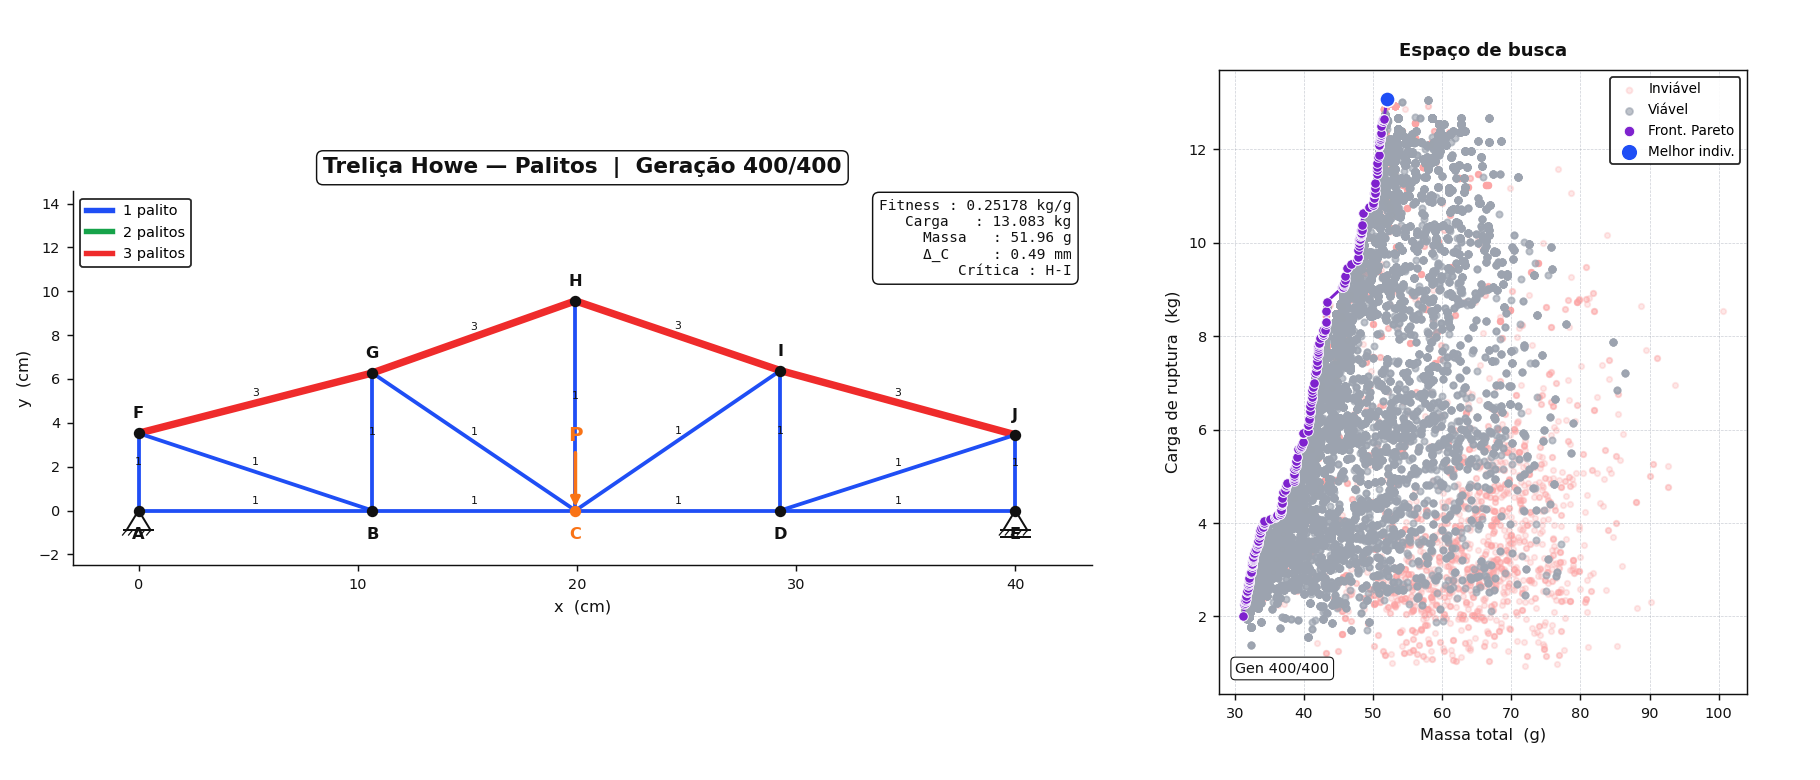
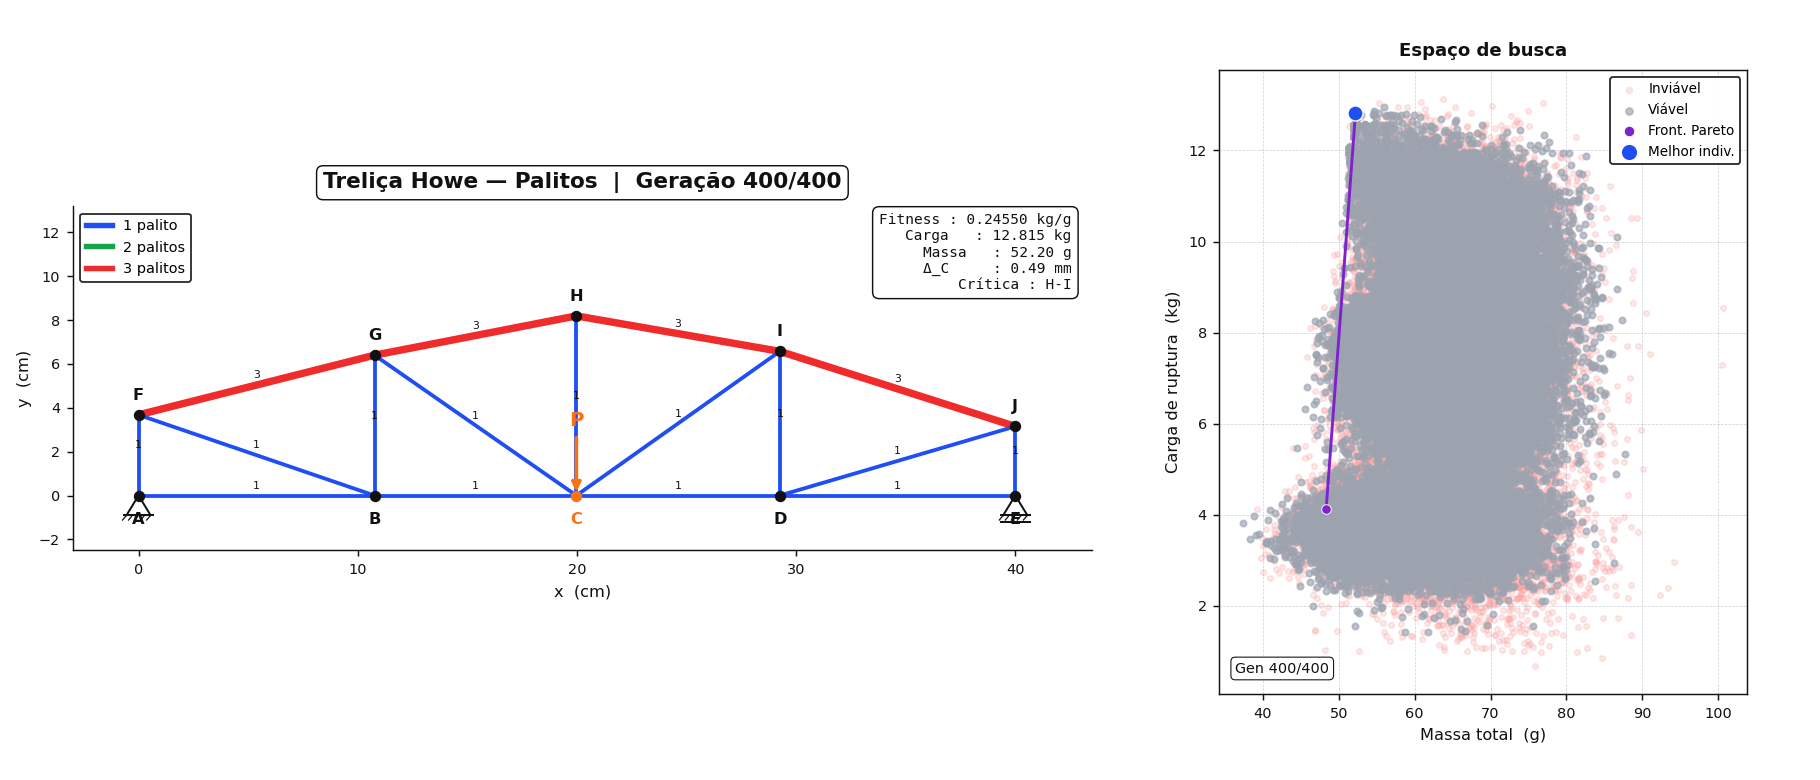
mudanças para o fitness unico do ag

diff --git a/Victor_version/trelica_howe_ga_corrigido.py b/Victor_version/trelica_howe_ga_corrigido.py
@@ -76,7 +76,6 @@ class Individual:
     h_cm: np.ndarray            # (5,) alturas das verticais
     n: np.ndarray               # (17,) palitos por barra, em {1, 2, 3}
     fitness: float = 0.0
-    objectives: tuple = field(default_factory=lambda: (1e12, 1e12))  # (massa+pen, -carga+pen)
     feasible: bool = False
     data: dict = field(default_factory=dict)
 
@@ -257,8 +256,7 @@ def evaluate(ind: Individual) -> Individual:
 
     penalidade = calcular_penalidades(lengths_cm, total_sticks, total_mass)
     feasible = (penalidade == 0.0)
-    ind.fitness = (load_kg / total_mass) if feasible and total_mass > 0 else 0.0
-    ind.objectives = (total_mass + penalidade, -load_kg + penalidade)
+    ind.fitness = load_kg / total_mass if feasible and total_mass > 0 else -penalidade
     ind.feasible = feasible
 
     stresses_mpa = (axial_unit * load_n / areas) / 1e6
@@ -299,75 +297,9 @@ def _pareto_front(pts: list[tuple[float, float]]) -> list[list[float]]:
     return [[m, l] for m, l in sorted(result)]
 
 
-def _dominates(obj_a: tuple, obj_b: tuple) -> bool:
-    """obj_a domina obj_b se for ≤ em todos e < em pelo menos um (ambos minimizados)."""
-    return (obj_a[0] <= obj_b[0] and obj_a[1] <= obj_b[1] and
-            (obj_a[0] < obj_b[0] or obj_a[1] < obj_b[1]))
-
-
-def _non_dominated_sort(population: list[Individual]) -> tuple[list, list]:
-    n = len(population)
-    dominated_by = [[] for _ in range(n)]
-    domination_count = [0] * n
-    fronts: list[list[int]] = [[]]
-    rank = [0] * n
-
-    for p in range(n):
-        for q in range(n):
-            if p == q:
-                continue
-            if _dominates(population[p].objectives, population[q].objectives):
-                dominated_by[p].append(q)
-            elif _dominates(population[q].objectives, population[p].objectives):
-                domination_count[p] += 1
-        if domination_count[p] == 0:
-            fronts[0].append(p)
-
-    i = 0
-    while fronts[i]:
-        next_front: list[int] = []
-        for p in fronts[i]:
-            for q in dominated_by[p]:
-                domination_count[q] -= 1
-                if domination_count[q] == 0:
-                    rank[q] = i + 1
-                    next_front.append(q)
-        i += 1
-        fronts.append(next_front)
-    fronts.pop()
-    return fronts, rank
-
-
-def _crowding_distance(front: list[int], population: list[Individual]) -> dict:
-    dist: dict[int, float] = {idx: 0.0 for idx in front}
-    size = len(front)
-    if size <= 2:
-        for idx in front:
-            dist[idx] = float('inf')
-        return dist
-    for m in range(2):
-        ordered = sorted(front, key=lambda idx: population[idx].objectives[m])
-        dist[ordered[0]] = dist[ordered[-1]] = float('inf')
-        f_min = population[ordered[0]].objectives[m]
-        f_max = population[ordered[-1]].objectives[m]
-        span = f_max - f_min
-        if span == 0:
-            continue
-        for k in range(1, size - 1):
-            dist[ordered[k]] += (
-                population[ordered[k + 1]].objectives[m] -
-                population[ordered[k - 1]].objectives[m]
-            ) / span
-    return dist
-
-
-def nsga_tournament(population: list[Individual], rank: list, crowding: dict) -> Individual:
-    a, b = random.sample(range(len(population)), 2)
-    if rank[a] < rank[b]:
-        return population[a]
-    elif rank[b] < rank[a]:
-        return population[b]
-    return population[a] if crowding.get(a, 0.0) >= crowding.get(b, 0.0) else population[b]
+def tournament(population: list[Individual], k: int = 2) -> Individual:
+    """Torneio de tamanho k — vence o maior fitness."""
+    return max(random.sample(population, k), key=lambda x: x.fitness)
 
 
 def random_individual() -> Individual:
@@ -422,16 +354,16 @@ def run_ga(
     population_size: int = 250,
     generations: int = 400,
     crossover_rate: float = 0.90,
+    elitism: int = 8,
     seed: int | None = 42,
 ) -> tuple[Individual, dict]:
-    """NSGA-II bi-objetivo: minimizar massa, maximizar carga. Retorna (melhor, histórico)."""
+    """Maximiza fitness = carga_kg/massa_g (acoplado). Torneio binário + elitismo."""
     if seed is not None:
         random.seed(seed)
         np.random.seed(seed)
 
     population = [random_individual() for _ in range(population_size)]
-    feas = [x for x in population if x.feasible]
-    best = max(feas if feas else population, key=lambda x: x.fitness)
+    best = max(population, key=lambda x: x.fitness)
 
     history_best:     list[Individual]        = []
     history_cloud:    list[list[list[float]]] = []
@@ -439,44 +371,25 @@ def run_ga(
     history_best_obj: list[list[float]]       = []
 
     for gen in range(1, generations + 1):
-        fronts, rank = _non_dominated_sort(population)
-        crowding: dict[int, float] = {}
-        for front in fronts:
-            crowding.update(_crowding_distance(front, population))
+        elite = sorted(population, key=lambda x: x.fitness, reverse=True)[:elitism]
 
-        offspring: list[Individual] = []
+        offspring: list[Individual] = list(elite)
         while len(offspring) < population_size:
-            p1 = nsga_tournament(population, rank, crowding)
-            p2 = nsga_tournament(population, rank, crowding)
+            p1 = tournament(population)
+            p2 = tournament(population)
             if random.random() < crossover_rate:
                 c1, c2 = crossover(p1, p2)
             else:
                 c1 = Individual(p1.p_cm.copy(), p1.h_cm.copy(), p1.n.copy())
                 c2 = Individual(p2.p_cm.copy(), p2.h_cm.copy(), p2.n.copy())
             offspring.append(evaluate(mutate(c1)))
-            offspring.append(evaluate(mutate(c2)))
+            if len(offspring) < population_size:
+                offspring.append(evaluate(mutate(c2)))
 
-        combined = population + offspring
-        fronts_c, _ = _non_dominated_sort(combined)
-        crowding_c: dict[int, float] = {}
-        for front in fronts_c:
-            crowding_c.update(_crowding_distance(front, combined))
+        population = sorted(offspring, key=lambda x: x.fitness, reverse=True)[:population_size]
 
-        next_pop: list[Individual] = []
-        for front in fronts_c:
-            if len(next_pop) + len(front) <= population_size:
-                next_pop.extend(combined[idx] for idx in front)
-            else:
-                remaining = population_size - len(next_pop)
-                ordered = sorted(front, key=lambda idx: crowding_c.get(idx, 0.0), reverse=True)
-                next_pop.extend(combined[idx] for idx in ordered[:remaining])
-                break
-        population = next_pop
-
-        feas = [x for x in population if x.feasible]
-        gen_best = max(feas if feas else population, key=lambda x: x.fitness)
-        if gen_best.fitness > best.fitness:
-            best = gen_best
+        if population[0].fitness > best.fitness:
+            best = population[0]
 
         cloud: list[list[float]] = []
         feas_pts: list[tuple[float, float]] = []

diff --git a/Victor_version/trelica_howe_3d.py b/Victor_version/trelica_howe_3d.py
@@ -97,7 +97,6 @@ class Individual:
     w_cm: float           # largura entre pórticos
     n:    np.ndarray      # (17,) ∈ {1,2,3}
     fitness:  float = 0.0
-    objectives: tuple = field(default_factory=lambda: (1e12, 1e12))  # (massa+pen, -carga+pen)
     feasible: bool  = False
     data: dict = field(default_factory=dict)
 
@@ -251,8 +250,7 @@ def evaluate(ind: Individual) -> Individual:
 
     penalidade = calcular_penalidades(lengths_cm, total_sticks, total_mass)
     feasible = (penalidade == 0.0)
-    ind.fitness = (load_kg_3d / total_mass) if feasible and total_mass > 0 else 0.0
-    ind.objectives = (total_mass + penalidade, -load_kg_3d + penalidade)
+    ind.fitness = load_kg_3d / total_mass if feasible and total_mass > 0 else -penalidade
     ind.feasible = feasible
 
     stresses_mpa = (axial_unit * load_n_frame / areas) / 1e6
@@ -286,75 +284,9 @@ def _pareto_front(pts):
     return [[m, l] for m, l in sorted(result)]
 
 
-def _dominates(obj_a: tuple, obj_b: tuple) -> bool:
-    """obj_a domina obj_b se for ≤ em todos e < em pelo menos um (ambos minimizados)."""
-    return (obj_a[0] <= obj_b[0] and obj_a[1] <= obj_b[1] and
-            (obj_a[0] < obj_b[0] or obj_a[1] < obj_b[1]))
-
-
-def _non_dominated_sort(population: list[Individual]) -> tuple[list, list]:
-    n = len(population)
-    dominated_by = [[] for _ in range(n)]
-    domination_count = [0] * n
-    fronts: list[list[int]] = [[]]
-    rank = [0] * n
-
-    for p in range(n):
-        for q in range(n):
-            if p == q:
-                continue
-            if _dominates(population[p].objectives, population[q].objectives):
-                dominated_by[p].append(q)
-            elif _dominates(population[q].objectives, population[p].objectives):
-                domination_count[p] += 1
-        if domination_count[p] == 0:
-            fronts[0].append(p)
-
-    i = 0
-    while fronts[i]:
-        next_front: list[int] = []
-        for p in fronts[i]:
-            for q in dominated_by[p]:
-                domination_count[q] -= 1
-                if domination_count[q] == 0:
-                    rank[q] = i + 1
-                    next_front.append(q)
-        i += 1
-        fronts.append(next_front)
-    fronts.pop()
-    return fronts, rank
-
-
-def _crowding_distance(front: list[int], population: list[Individual]) -> dict:
-    dist: dict[int, float] = {idx: 0.0 for idx in front}
-    size = len(front)
-    if size <= 2:
-        for idx in front:
-            dist[idx] = float('inf')
-        return dist
-    for m in range(2):
-        ordered = sorted(front, key=lambda idx: population[idx].objectives[m])
-        dist[ordered[0]] = dist[ordered[-1]] = float('inf')
-        f_min = population[ordered[0]].objectives[m]
-        f_max = population[ordered[-1]].objectives[m]
-        span = f_max - f_min
-        if span == 0:
-            continue
-        for k in range(1, size - 1):
-            dist[ordered[k]] += (
-                population[ordered[k + 1]].objectives[m] -
-                population[ordered[k - 1]].objectives[m]
-            ) / span
-    return dist
-
-
-def nsga_tournament(population: list[Individual], rank: list, crowding: dict) -> Individual:
-    a, b = random.sample(range(len(population)), 2)
-    if rank[a] < rank[b]:
-        return population[a]
-    elif rank[b] < rank[a]:
-        return population[b]
-    return population[a] if crowding.get(a, 0.0) >= crowding.get(b, 0.0) else population[b]
+def tournament(population: list[Individual], k: int = 2) -> Individual:
+    """Torneio de tamanho k — vence o maior fitness."""
+    return max(random.sample(population, k), key=lambda x: x.fitness)
 
 
 def random_individual() -> Individual:
@@ -427,55 +359,37 @@ def run_ga(
     population_size: int = 250,
     generations:     int = 400,
     crossover_rate:  float = 0.90,
+    elitism:         int = 8,
     seed:            int | None = 42,
 ) -> tuple[Individual, dict]:
+    """Maximiza fitness = carga_kg/massa_g (acoplado). Torneio binário + elitismo."""
     if seed is not None:
         random.seed(seed); np.random.seed(seed)
 
     population = [random_individual() for _ in range(population_size)]
-    feas = [x for x in population if x.feasible]
-    best = max(feas if feas else population, key=lambda x: x.fitness)
+    best = max(population, key=lambda x: x.fitness)
 
     h_best, h_cloud, h_pareto, h_best_obj = [], [], [], []
 
     for gen in range(1, generations + 1):
-        fronts, rank = _non_dominated_sort(population)
-        crowding: dict[int, float] = {}
-        for front in fronts:
-            crowding.update(_crowding_distance(front, population))
+        elite = sorted(population, key=lambda x: x.fitness, reverse=True)[:elitism]
 
-        offspring: list[Individual] = []
+        offspring: list[Individual] = list(elite)
         while len(offspring) < population_size:
-            p1 = nsga_tournament(population, rank, crowding)
-            p2 = nsga_tournament(population, rank, crowding)
+            p1 = tournament(population)
+            p2 = tournament(population)
             c1, c2 = crossover(p1, p2) if random.random() < crossover_rate else (
                 Individual(p1.p_cm.copy(), p1.h_cm.copy(), p1.w_cm, p1.n.copy()),
                 Individual(p2.p_cm.copy(), p2.h_cm.copy(), p2.w_cm, p2.n.copy()),
             )
             offspring.append(evaluate(mutate(c1)))
-            offspring.append(evaluate(mutate(c2)))
+            if len(offspring) < population_size:
+                offspring.append(evaluate(mutate(c2)))
 
-        combined = population + offspring
-        fronts_c, _ = _non_dominated_sort(combined)
-        crowding_c: dict[int, float] = {}
-        for front in fronts_c:
-            crowding_c.update(_crowding_distance(front, combined))
+        population = sorted(offspring, key=lambda x: x.fitness, reverse=True)[:population_size]
 
-        next_pop: list[Individual] = []
-        for front in fronts_c:
-            if len(next_pop) + len(front) <= population_size:
-                next_pop.extend(combined[idx] for idx in front)
-            else:
-                remaining = population_size - len(next_pop)
-                ordered = sorted(front, key=lambda idx: crowding_c.get(idx, 0.0), reverse=True)
-                next_pop.extend(combined[idx] for idx in ordered[:remaining])
-                break
-        population = next_pop
-
-        feas = [x for x in population if x.feasible]
-        gen_best = max(feas if feas else population, key=lambda x: x.fitness)
-        if gen_best.fitness > best.fitness:
-            best = gen_best
+        if population[0].fitness > best.fitness:
+            best = population[0]
 
         cloud    = []
         feas_pts = []
